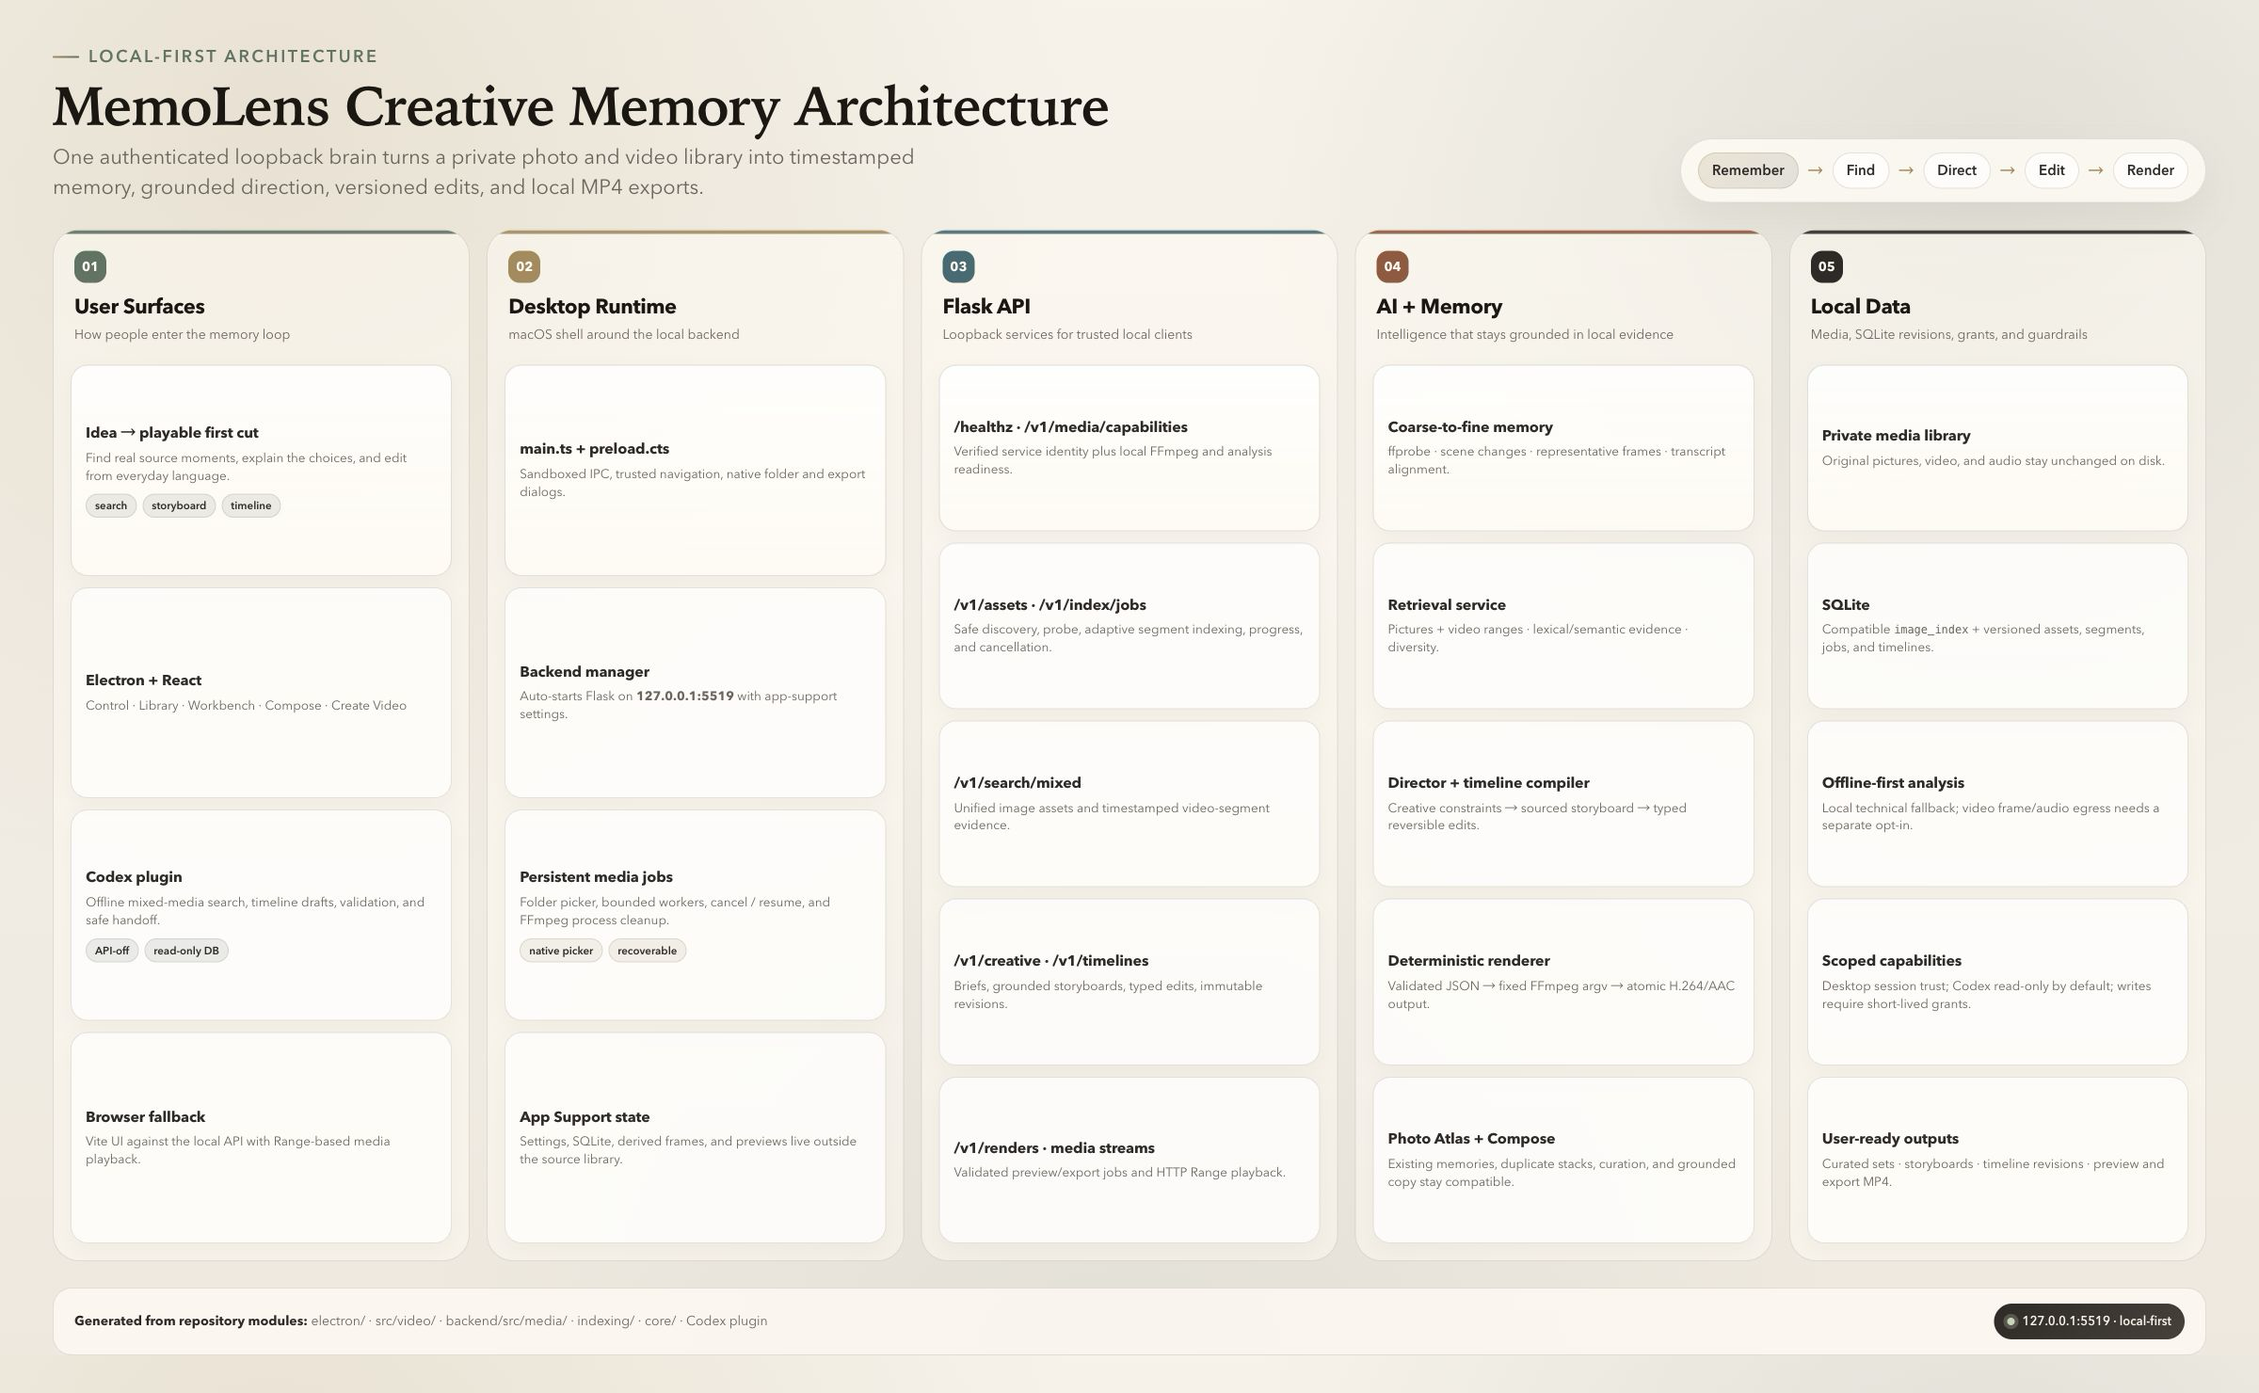
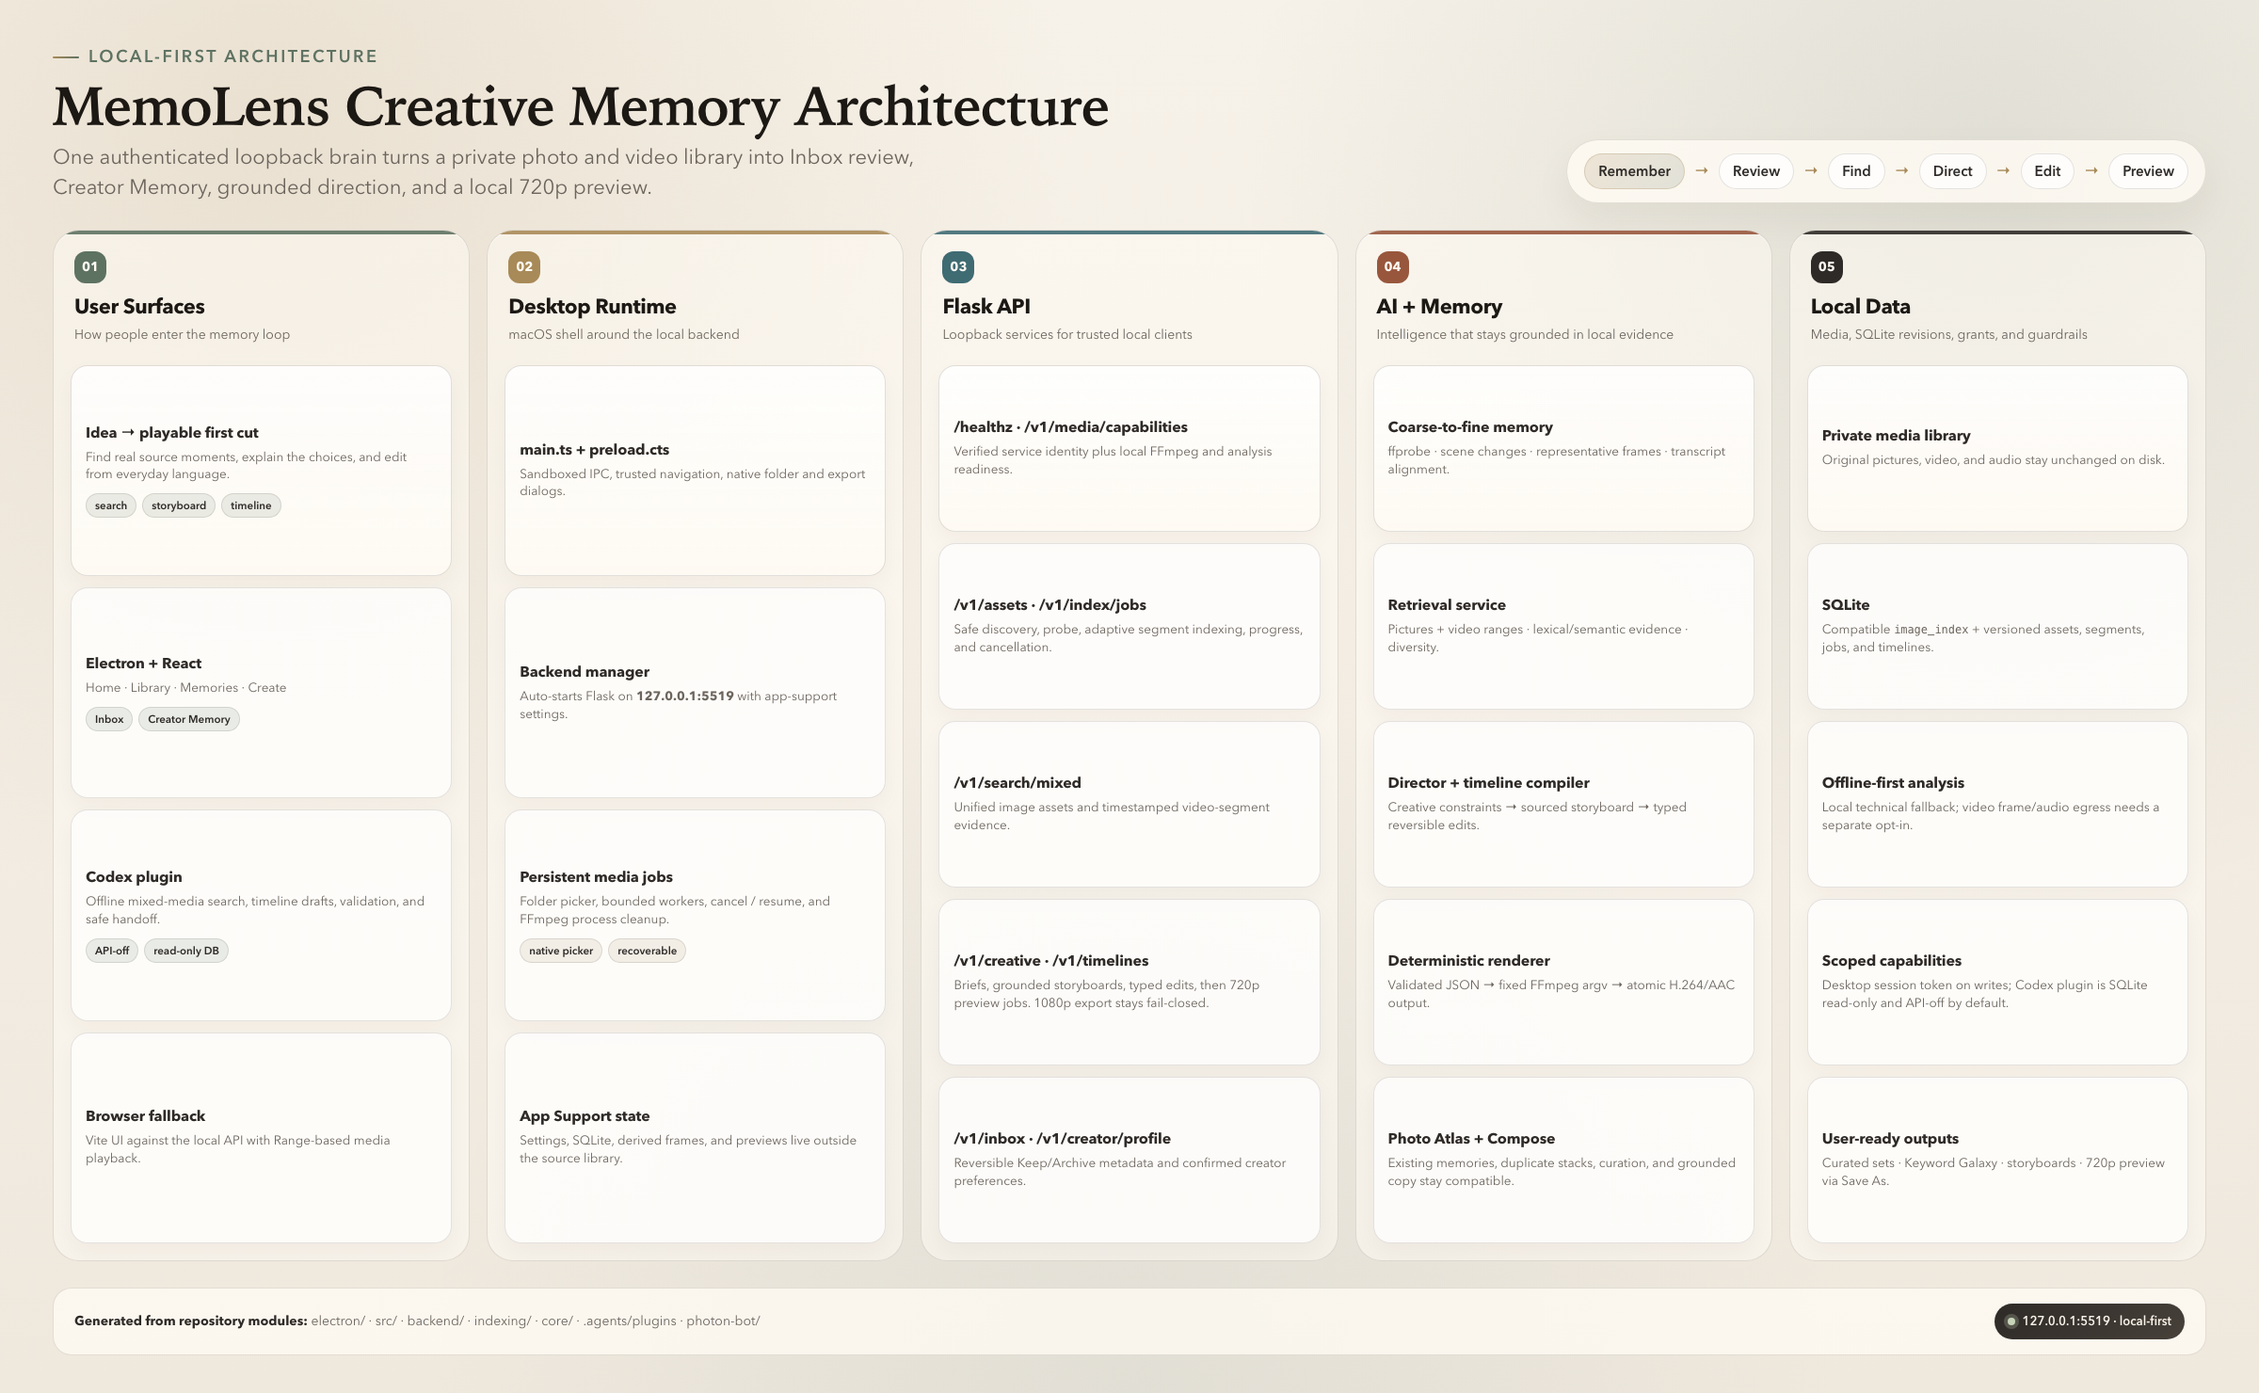
Fix stale provider copy and desktop SQLite path discovery.
Photon and the Codex plugin now resolve the hashed Application Support database instead of assuming photo_index.db in the photo folder, and README architecture matches the 0.5 workspace model.

diff --git a/photon-bot/src/config.ts b/photon-bot/src/config.ts
@@ -58,9 +58,10 @@ export function loadConfig(): BotConfig {
     "DISCORD_SEND_IMAGE_WIDTH",
     64,
   );
+  const explicitDbPath = process.env.SQLITE_DB_PATH?.trim();
   const dbPath = backendSendPathOverrides
     ? readFilePath(
-        process.env.SQLITE_DB_PATH ?? path.join(imageLibraryDir, "photo_index.db"),
+        explicitDbPath || resolveManagedSqlitePath() || "",
         "SQLITE_DB_PATH",
       )
     : readOptionalFilePath(process.env.SQLITE_DB_PATH);
@@ -172,7 +173,75 @@ function readDirectory(value: string, key: string, createIfMissing = false): str
   return resolved;
 }
 
+function memolensStateDir(): string {
+  const configured = process.env.MEMOLENS_APP_STATE_DIR?.trim();
+  if (configured) {
+    return path.resolve(configured);
+  }
+  if (process.platform === "darwin") {
+    return path.join(process.env.HOME ?? "", "Library/Application Support/MemoLens");
+  }
+  if (process.platform === "win32") {
+    return path.join(process.env.APPDATA || path.join(process.env.HOME ?? "", "AppData/Roaming"), "MemoLens");
+  }
+  return path.join(process.env.XDG_STATE_HOME || path.join(process.env.HOME ?? "", ".local/state"), "MemoLens");
+}
+
+function readJsonObject(filePath: string): Record<string, unknown> | null {
+  try {
+    const payload = JSON.parse(fs.readFileSync(filePath, "utf8")) as unknown;
+    return payload !== null && typeof payload === "object" && !Array.isArray(payload)
+      ? (payload as Record<string, unknown>)
+      : null;
+  } catch {
+    return null;
+  }
+}
+
+function existingFile(value: unknown): string | null {
+  if (typeof value !== "string" || !value.trim()) {
+    return null;
+  }
+  const resolved = path.resolve(value.trim());
+  return fs.existsSync(resolved) && fs.statSync(resolved).isFile() ? resolved : null;
+}
+
+function resolveManagedSqlitePath(): string | null {
+  const stateDir = memolensStateDir();
+  const desktop = readJsonObject(path.join(stateDir, "desktop-settings.json"));
+  const fromDesktop = existingFile(desktop?.defaultDbPath);
+  if (fromDesktop) {
+    return fromDesktop;
+  }
+  const backend = readJsonObject(path.join(stateDir, "backend-settings.json"));
+  const fromBackend = existingFile(backend?.db_path);
+  if (fromBackend) {
+    return fromBackend;
+  }
+  const storageDir = path.join(stateDir, "storage");
+  if (fs.existsSync(storageDir) && fs.statSync(storageDir).isDirectory()) {
+    const hashed = fs
+      .readdirSync(storageDir)
+      .filter((name) => /^photo-index-[0-9a-f]{24}\.db$/i.test(name))
+      .map((name) => path.join(storageDir, name))
+      .filter((filePath) => fs.statSync(filePath).isFile())
+      .sort();
+    if (hashed.length === 1) {
+      const onlyHashedPath = hashed[0];
+      if (onlyHashedPath) {
+        return onlyHashedPath;
+      }
+    }
+  }
+  return existingFile(path.join(storageDir, "photo_index.db"));
+}
+
 function readFilePath(value: string, key: string): string {
+  if (!value.trim()) {
+    throw new Error(
+      `${key} must be set to the SQLite path shown in MemoLens Library / Setup. Desktop indexes use hashed names like photo-index-<hash>.db under Application Support, not photo_index.db inside the photo folder.`,
+    );
+  }
   const resolved = path.resolve(value);
   if (!fs.existsSync(resolved)) {
     throw new Error(`${key} does not exist: ${resolved}`);

diff --git a/docs/assets/memolens-architecture.html b/docs/assets/memolens-architecture.html
@@ -311,15 +311,16 @@
         <h1>MemoLens Creative Memory Architecture</h1>
         <p class="subtitle">
           One authenticated loopback brain turns a private photo and video library into
-          timestamped memory, grounded direction, versioned edits, and local MP4 exports.
+          Inbox review, Creator Memory, grounded direction, and a local 720p preview.
         </p>
       </div>
       <div class="loop" aria-label="Product loop">
         <span class="accent">Remember</span><i>→</i>
+        <span>Review</span><i>→</i>
         <span>Find</span><i>→</i>
         <span>Direct</span><i>→</i>
         <span>Edit</span><i>→</i>
-        <span>Render</span>
+        <span>Preview</span>
       </div>
     </header>
 
@@ -338,7 +339,8 @@
           </article>
           <article class="card">
             <h3>Electron + React</h3>
-            <p>Control · Library · Workbench · Compose · Create Video</p>
+            <p>Home · Library · Memories · Create</p>
+            <div class="tags"><span class="tag">Inbox</span><span class="tag">Creator Memory</span></div>
           </article>
           <article class="card">
             <h3>Codex plugin</h3>
@@ -400,11 +402,11 @@
           </article>
           <article class="card">
             <h3>/v1/creative · /v1/timelines</h3>
-            <p>Briefs, grounded storyboards, typed edits, immutable revisions.</p>
+            <p>Briefs, grounded storyboards, typed edits, then 720p preview jobs. 1080p export stays fail-closed.</p>
           </article>
           <article class="card">
-            <h3>/v1/renders · media streams</h3>
-            <p>Validated preview/export jobs and HTTP Range playback.</p>
+            <h3>/v1/inbox · /v1/creator/profile</h3>
+            <p>Reversible Keep/Archive metadata and confirmed creator preferences.</p>
           </article>
         </div>
       </section>
@@ -460,11 +462,11 @@
           </article>
           <article class="card">
             <h3>Scoped capabilities</h3>
-            <p>Desktop session trust; Codex read-only by default; writes require short-lived grants.</p>
+            <p>Desktop session token on writes; Codex plugin is SQLite read-only and API-off by default.</p>
           </article>
           <article class="card">
             <h3>User-ready outputs</h3>
-            <p>Curated sets · storyboards · timeline revisions · preview and export MP4.</p>
+            <p>Curated sets · Keyword Galaxy · storyboards · 720p preview via Save As.</p>
           </article>
         </div>
       </section>
@@ -473,7 +475,7 @@
     <footer class="footer">
       <div class="modules">
         <strong>Generated from repository modules:</strong>
-        electron/ · src/video/ · backend/src/media/ · indexing/ · core/ · Codex plugin
+        electron/ · src/ · backend/ · indexing/ · core/ · .agents/plugins · photon-bot/
       </div>
       <div class="badge">127.0.0.1:5519 · local-first</div>
     </footer>

diff --git a/src/App.tsx b/src/App.tsx
@@ -1697,7 +1697,7 @@ function App() {
           {indexStats && canDescribeScopedIndexHealth ? (
             <p className={hasStaleIndex ? "inline-error" : "inline-note"}>
               {hasStaleIndex
-                ? `Current SQLite index looks stale: ${formatPercent(indexStats.fallbackRatio)} of the ${indexStats.totalRecords} records still use filename-only fallback metadata. Rebuild the library once so Vertex can analyze the images again.`
+                ? `Current SQLite index looks stale: ${formatPercent(indexStats.fallbackRatio)} of the ${indexStats.totalRecords} records still use filename-only fallback metadata. Rebuild the library once so ${selectedVisionProfile ? formatProviderName(selectedVisionProfile.provider) : "the configured vision profile"} can analyze the images again.`
                 : `Current SQLite index looks healthy: ${indexStats.totalRecords} records are available for retrieval.`}
             </p>
           ) : null}

diff --git a/.agents/plugins/plugins/memolens/scripts/memolens_core.py b/.agents/plugins/plugins/memolens/scripts/memolens_core.py
@@ -111,7 +111,26 @@ def resolve_local_paths(
 
     if db is None:
         for state_dir in _state_dir_candidates():
-            candidate = state_dir / "storage" / "photo_index.db"
+            desktop_path = state_dir / "desktop-settings.json"
+            try:
+                desktop = json.loads(desktop_path.read_text(encoding="utf-8"))
+            except (FileNotFoundError, OSError, UnicodeError, json.JSONDecodeError):
+                desktop = None
+            if isinstance(desktop, dict):
+                db = _clean_path(desktop.get("defaultDbPath"))
+                if db is not None and db.is_file():
+                    break
+                db = None
+
+    if db is None:
+        for state_dir in _state_dir_candidates():
+            storage = state_dir / "storage"
+            hashed = sorted(storage.glob("photo-index-*.db"))
+            hashed = [path for path in hashed if path.is_file()]
+            if len(hashed) == 1:
+                db = hashed[0].resolve()
+                break
+            candidate = storage / "photo_index.db"
             if candidate.is_file():
                 db = candidate.resolve()
                 break

diff --git a/README.md b/README.md
@@ -108,8 +108,8 @@ npm run electron
 
 ### First run inside the app
 
-1. Open **Library**, choose the folder where you already save creator material, and build its private local index.
-2. Review new photos and videos in **Inbox** when you feel like rediscovering them: Keep, Archive from MemoLens, Favorite, or mark Ready. Every action is reversible and leaves the file untouched.
+1. Open **Library**, choose the folder where you already save creator material, and build its private local **photo** index.
+2. Index videos from **Create → Video first cut** so they join the same library. Then review new photos and videos in **Inbox**: Keep, Archive from MemoLens, Favorite, or mark Ready. Every action is reversible and leaves the file untouched.
 3. Confirm the small **Creator Memory** profile you want MemoLens and Codex to reuse; unconfirmed observations never become defaults.
 4. Open **Memories** to rediscover themes, or **Create** to describe the next photo story or video first cut. Codex can search the same read-only memory when conversation is the more natural surface.
 
@@ -219,31 +219,36 @@ export SQLITE_DB_PATH="$IMAGE_LIBRARY_DIR/photo_index.db"
 ## Architecture
 
 <p align="center">
+  <img src="docs/assets/memolens-workspaces.png" alt="MemoLens 0.5 workspaces — Home, Library, Memories, and Create" width="100%" />
+</p>
+
+<p align="center"><sub>Four app rooms: Home, Library (Inbox + Creator Memory), Memories, and Create.</sub></p>
+
+<p align="center">
   <img src="docs/assets/memolens-architecture.png" alt="MemoLens architecture — local-first layers from user surfaces to SQLite" width="100%" />
 </p>
 
-<p align="center"><sub>Source artboard: <code>docs/assets/memolens-architecture.html</code></sub></p>
+<p align="center"><sub>Technical artboard: <code>docs/assets/memolens-architecture.html</code></sub></p>
 
-Six boundaries, one local loop:
+Five boundaries, one local loop:
 
 | Layer | Code | Responsibility |
 | --- | --- | --- |
-| User surfaces | `src/App.tsx`, `src/AtlasView.tsx`, `src/video/`, `photon-bot/` | Control, Library, Workbench, Compose, Create Video, Discord |
-| Desktop runtime | `electron/` | Folder/preview-save pickers, verified Flask, progress, authenticated IPC |
-| API services | `backend/src/api/routes.py` | Health, settings, image compatibility APIs, media/creative routes |
-| Media engine | `backend/src/media/` | Probe, adaptive segmentation, mixed search, timeline validation, FFmpeg jobs |
-| AI + memory | `indexing/`, `backend/src/retrieval/`, `core/photo_atlas.py` | Photo vision, vectors, planning, ranking, Atlas derivation |
-| Data + policy | `core/db.py`, `core/media_db.py`, `core/config.py` | Compatible image index, media revisions, roots, jobs, local-first guardrails |
+| User surfaces | `src/App.tsx`, `src/library/`, `src/creator/`, `src/AtlasView.tsx`, `src/VideoWorkbench.tsx`, `.agents/plugins/` | Home, Library, Memories, Create; Codex is a read-only conversational surface |
+| Desktop runtime | `electron/` | Folder/preview-save pickers, hashed SQLite under Application Support, verified Flask, authenticated IPC |
+| API services | `backend/src/api/routes.py` | Health, settings, photo index, inbox, creator profile, mixed search, creative/render routes |
+| Intelligence | `indexing/`, `backend/src/retrieval/`, `backend/src/media/`, `core/photo_atlas.py` | Photo vision + vectors, local video probe, retrieval, Atlas, director/timeline |
+| Data + policy | `core/db.py`, `core/media_db.py`, `core/config.py` | Compatible image index, media schema v3, originals untouched, loopback + desktop token |
 
 ```text
-Remember  →  Find  →  Direct  →  Edit  →  Validate  →  Render
+Remember  →  Review  →  Find  →  Direct  →  Edit  →  Preview
                               ↑
              authenticated Flask :5519 (loopback)
                               ↑
               Electron  ·  Browser reads  ·  Codex drafts
 ```
 
-The Flask-owned query engines live under `backend/src/retrieval/`. The React UI lives in repo-root `src/`; `frontend/querying/` now contains compatibility imports only.
+Library **photo** indexing is `POST /v1/indexing/jobs`. Video files (MP4/MOV/M4V) enter through **Create → Video first cut** (`POST /v1/assets/import`) and then appear in the same Inbox. The Flask-owned query engines live under `backend/src/retrieval/`. The React UI lives in repo-root `src/`; `frontend/querying/` now contains compatibility imports only.
 
 ### Repository map
 
@@ -252,14 +257,15 @@ backend/       Flask entry + HTTP API
 core/          Config, SQLite, Atlas, embeddings, LLM helpers
 electron/      Desktop main / preload / backend manager
 frontend/      Legacy Python compatibility imports
-indexing/      Scan, EXIF, vision, geocode, vectors
+indexing/      Photo scan, EXIF, vision, geocode, vectors
 photon-bot/    Discord messaging bridge
+.agents/       Codex Skill + stdio MCP plugin
 scripts/       Bootstrap, verify, backfill, smoke tests
-src/           Vite + React renderer, including the video workbench
+src/           Vite + React renderer
 config.yaml    Library defaults + model profiles
 ```
 
-Suggested reading order: `docs/specs/005-video-creative-workbench.md` → `backend/src/api/routes.py` → `backend/src/media/` → `core/media_db.py` → `src/video/` → `electron/main.ts`. The original photo path remains under `indexing/`, `backend/src/retrieval/`, and `core/photo_atlas.py`.
+Suggested reading order: `docs/specs/006-creator-memory-media-inbox.md` → `docs/specs/005-video-creative-workbench.md` → `backend/src/api/routes.py` → `backend/src/media/` → `core/media_db.py` → `src/library/` → `electron/main.ts`.
 
 ---
 

diff --git a/photon-bot/README.md b/photon-bot/README.md
@@ -32,7 +32,7 @@ Smoke test:
 ```bash
 curl -X POST http://127.0.0.1:5519/v1/retrieval/query \
   -H 'Content-Type: application/json' \
-  -d '{"text":"beach sunset","top_k":3,"db_path":"/absolute/path/to/your/photo/folder/photo_index.db","image_library_dir":"/absolute/path/to/your/photo/folder"}'
+  -d '{"text":"beach sunset","top_k":3,"db_path":"/absolute/path/to/your/Application-Support/storage/photo-index-abc123.db","image_library_dir":"/absolute/path/to/your/photo/folder"}'
 ```
 
 ### 2. Discord bot

diff --git a/frontend/README.md b/frontend/README.md
@@ -24,4 +24,4 @@ backend/src/retrieval/
 | Indexing / shared | `indexing/`, `core/` | EXIF, vision, vectors, SQLite, Atlas derivation |
 
 Default local photo placeholder: `./local-photo-library`  
-Default managed SQLite (macOS desktop): `~/Library/Application Support/MemoLens/storage/photo_index.db`
+Default managed SQLite (macOS desktop): `~/Library/Application Support/MemoLens/storage/photo-index-<hash>.db`
